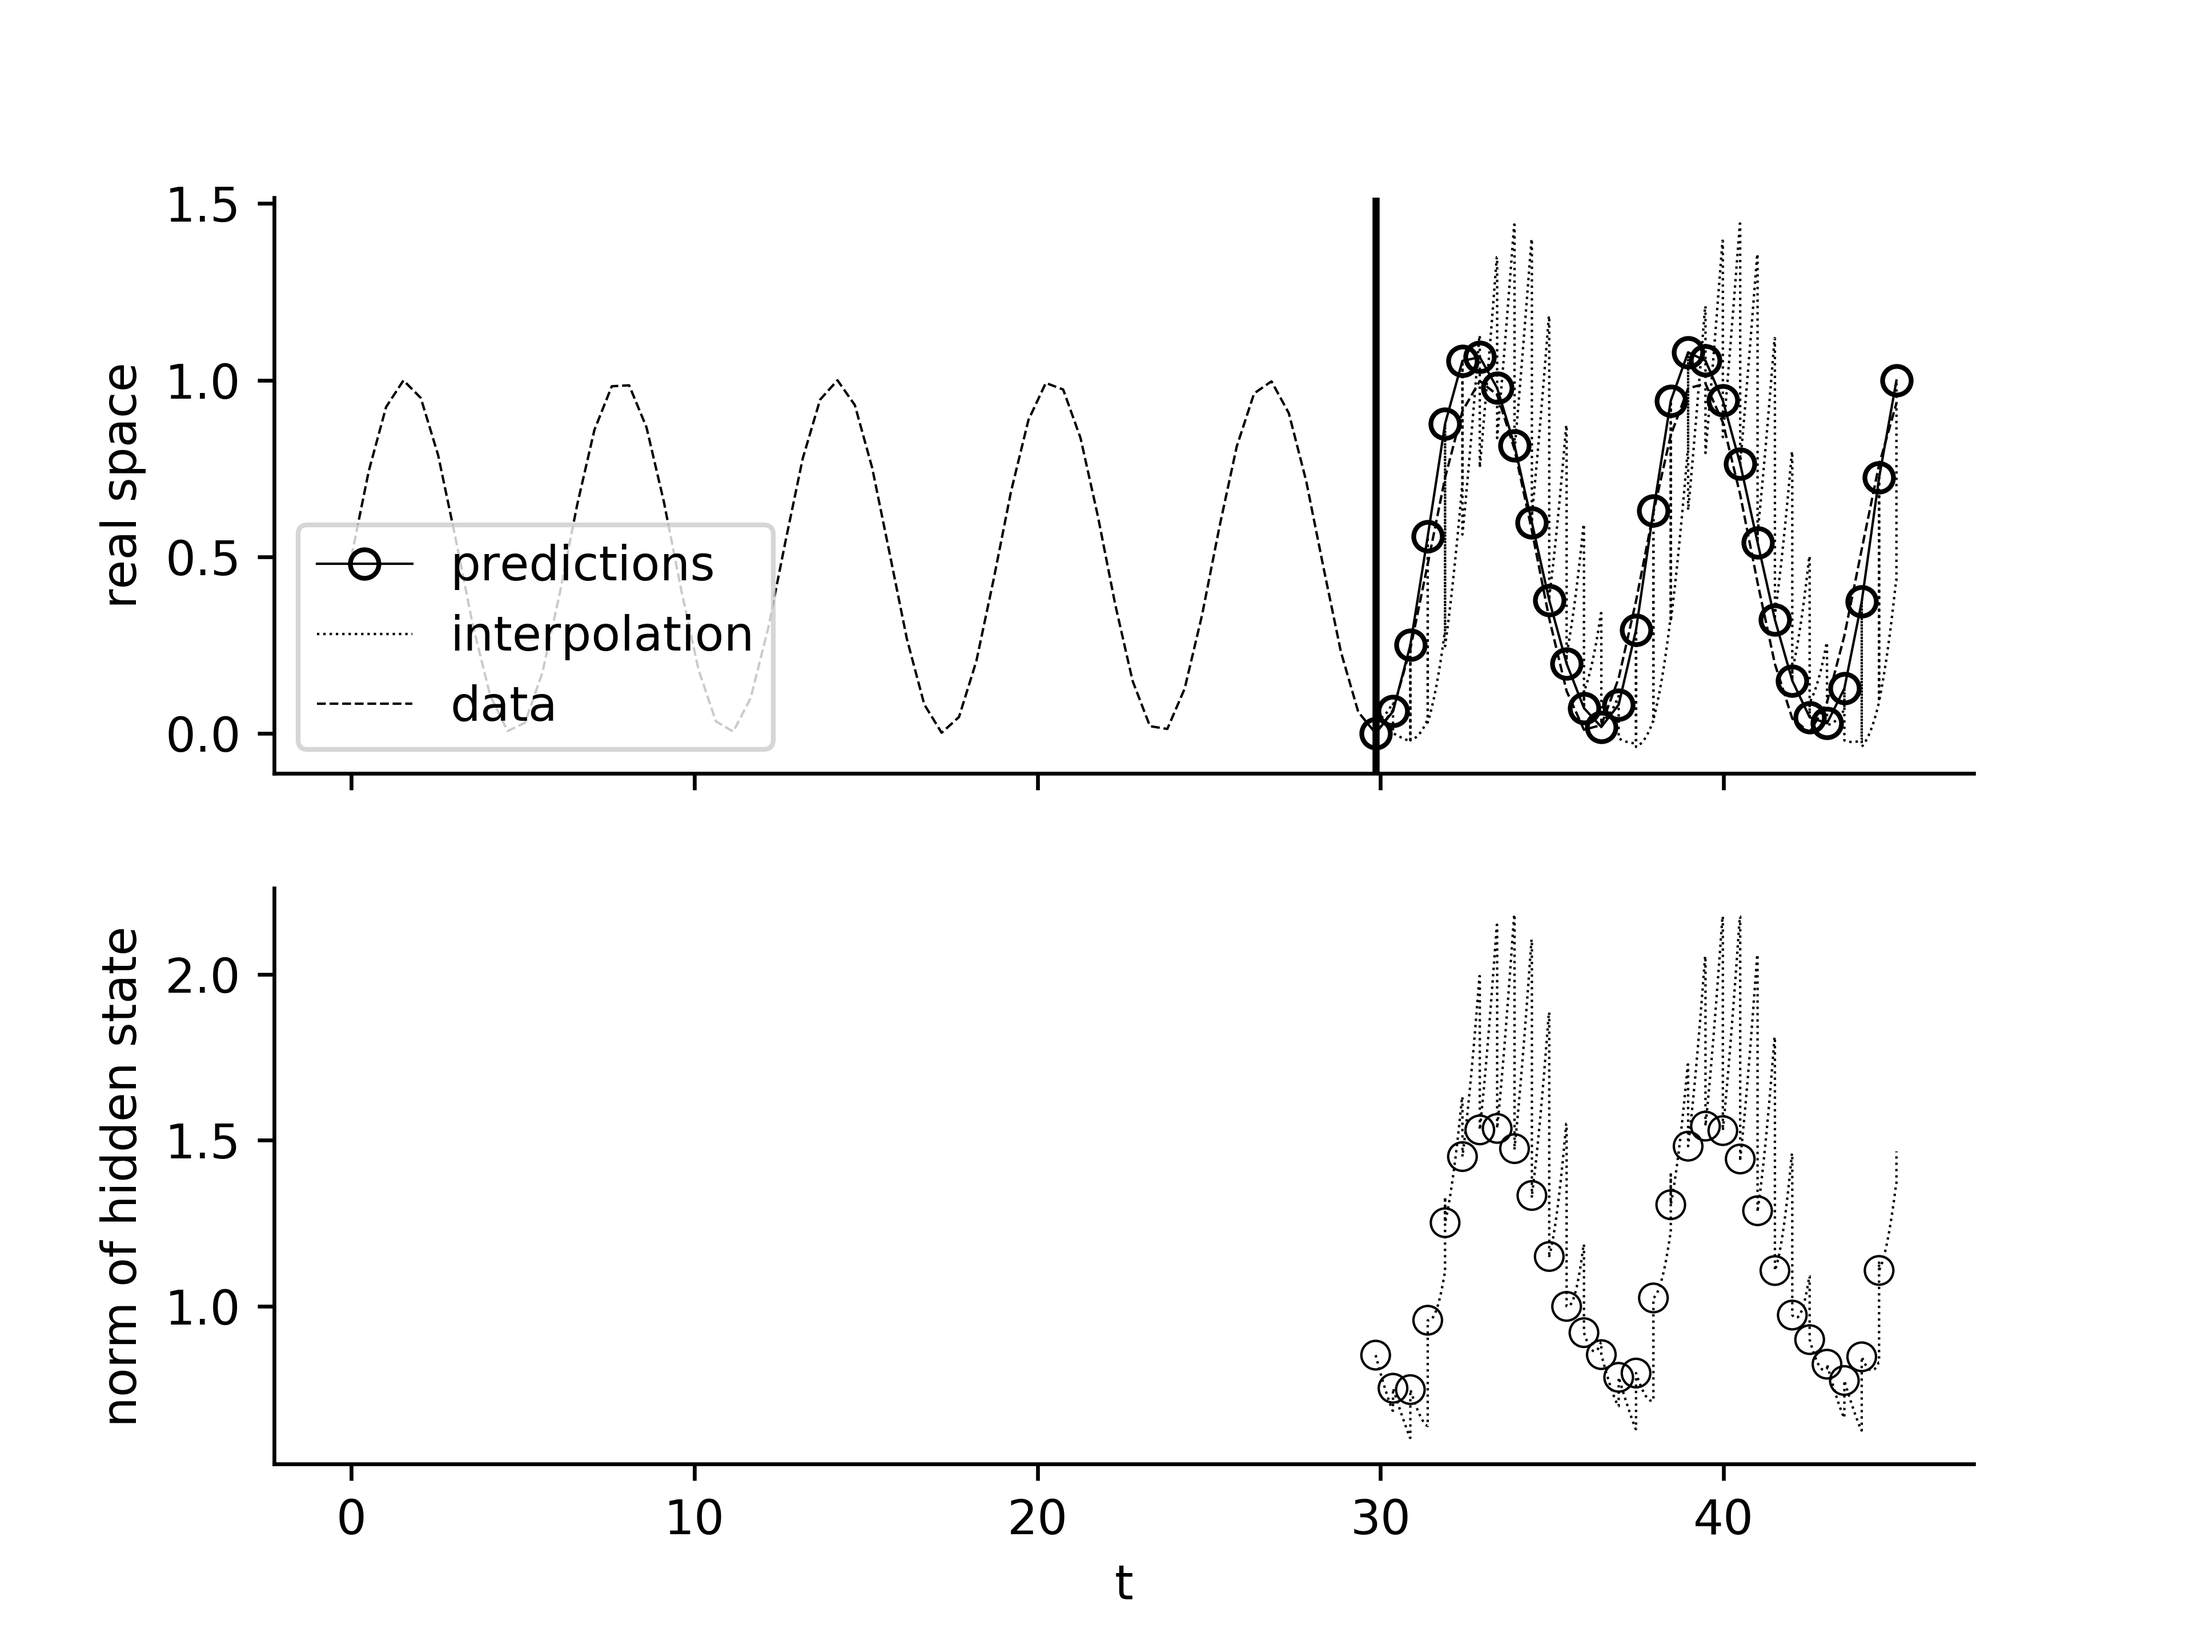
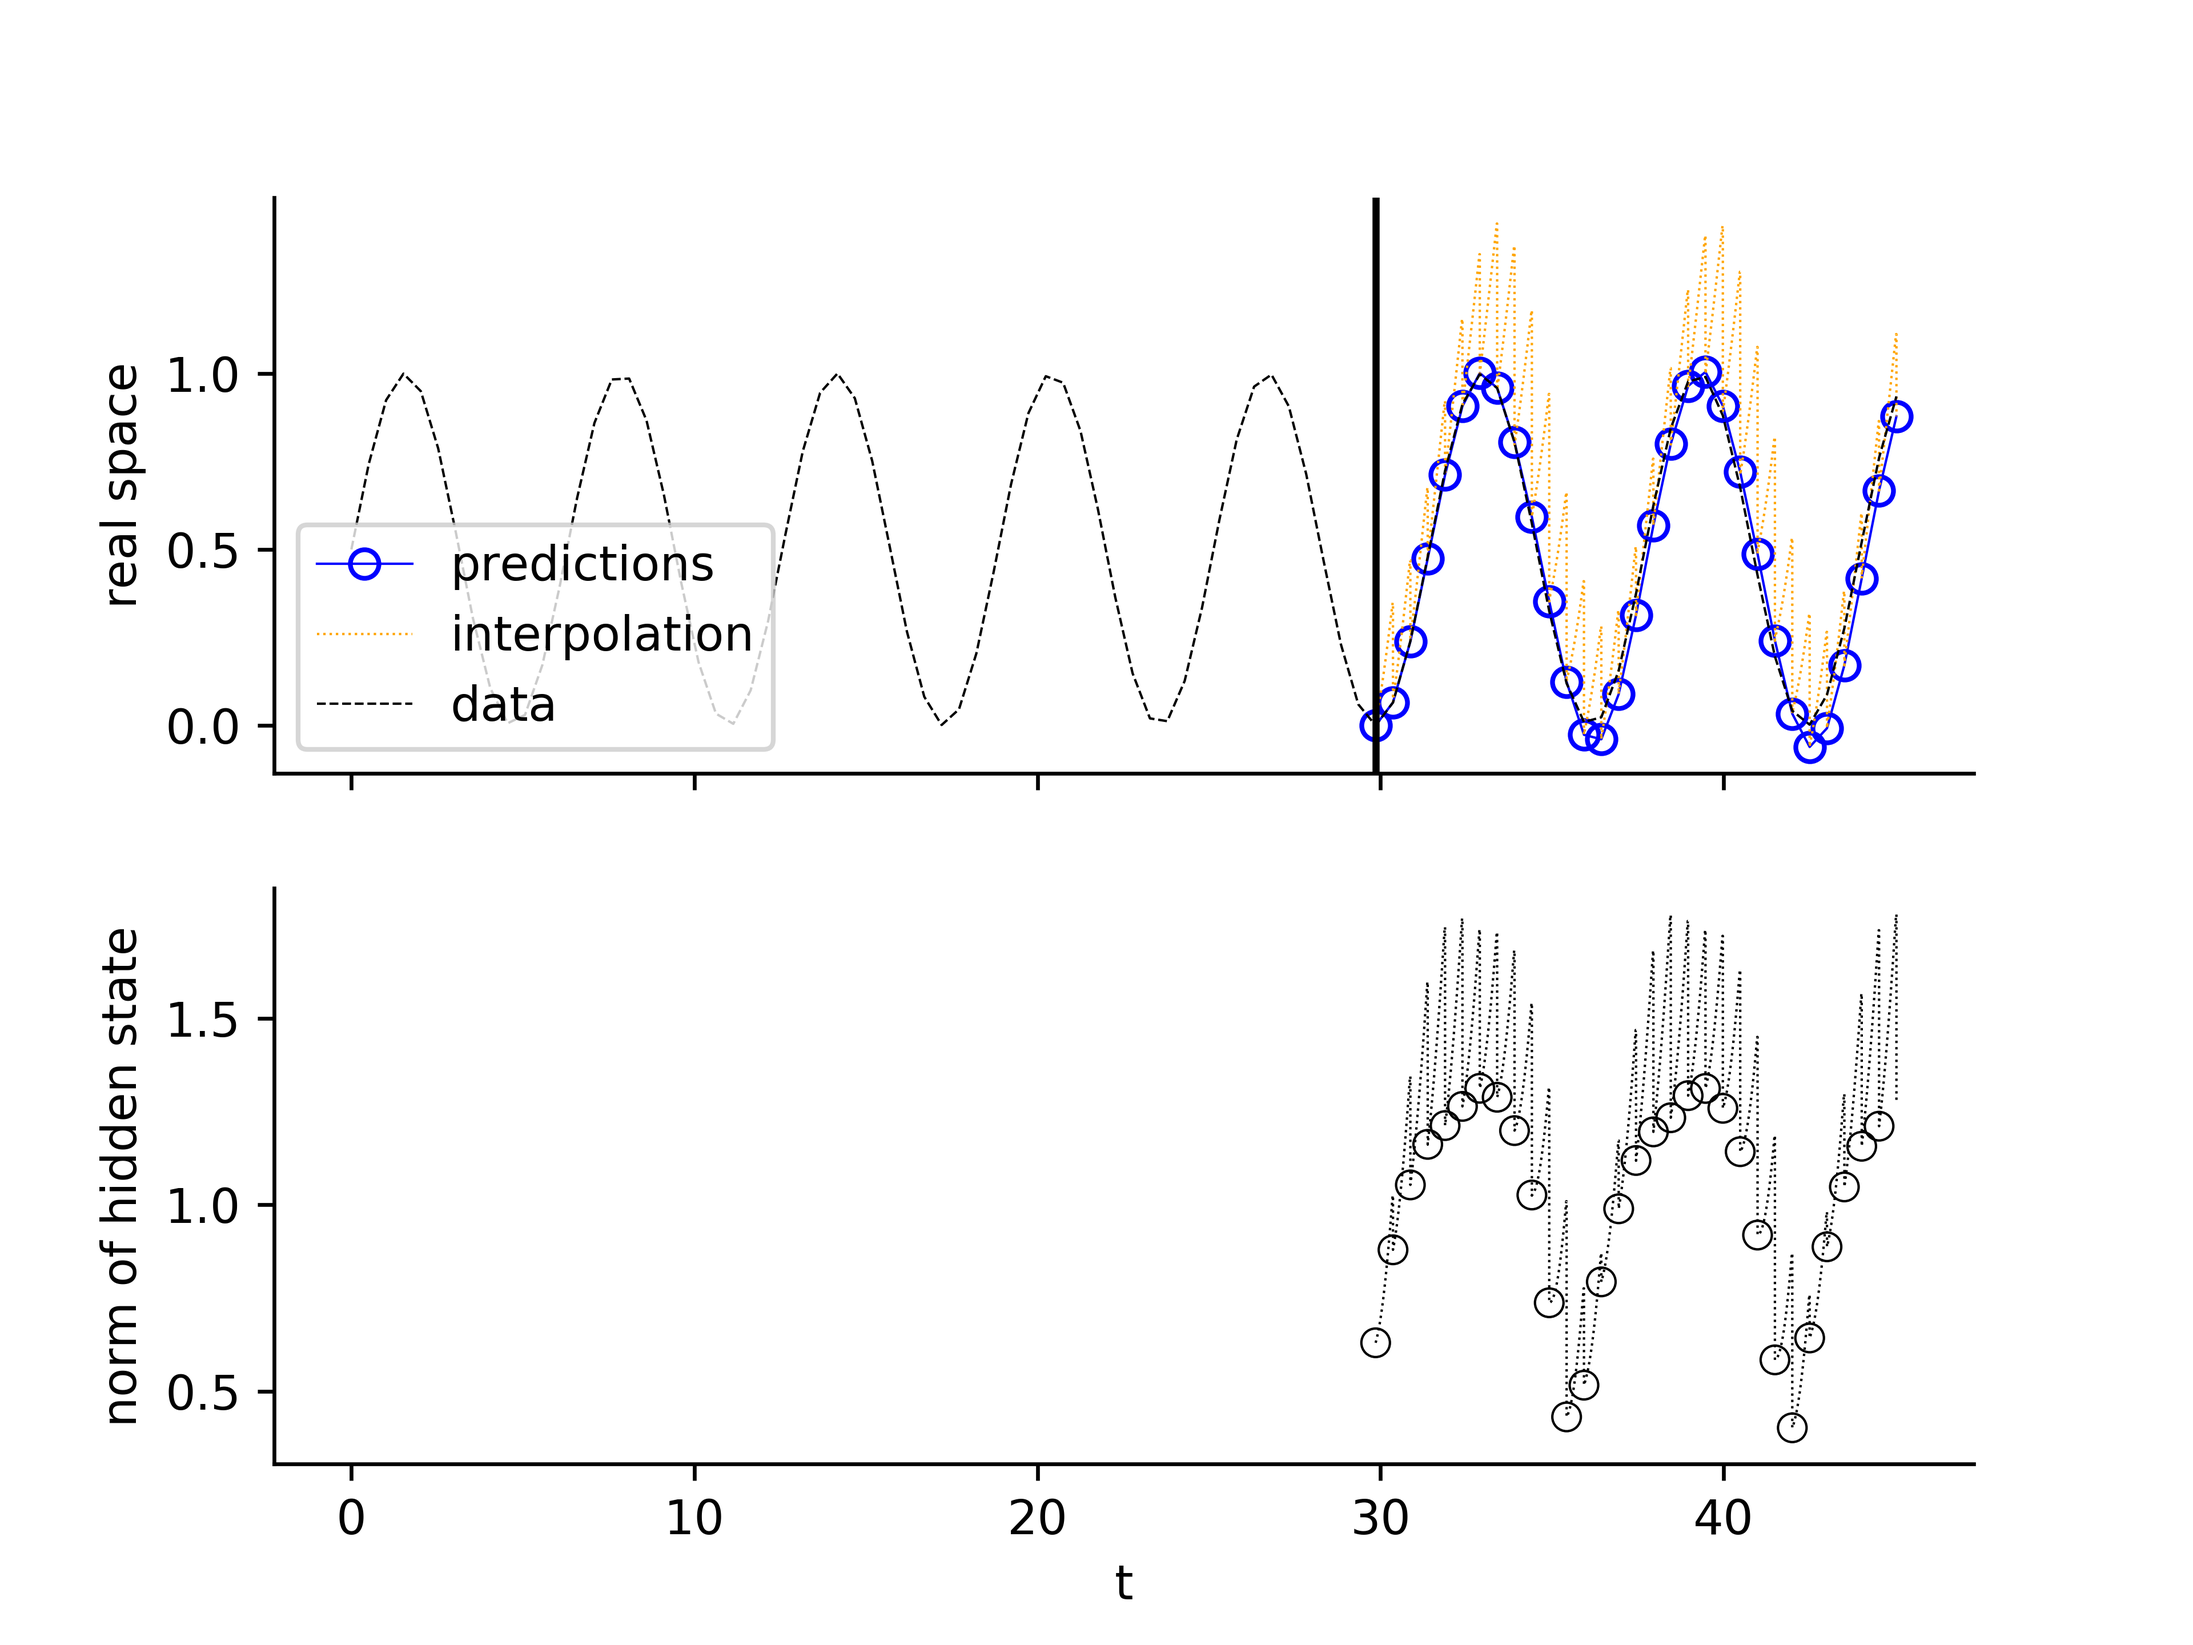
Updated ODE_Net odeint Integration

diff --git a/fig5.py b/fig5.py
@@ -81,8 +81,7 @@ start_time = time.time()
 
 for i in range(1):
 
-    print("Model", i, "| elapsed time:", "{:5.2f}".format(
-        (time.time() - start_time) / 60), "min")
+    print("Model", i, "| elapsed time:", "{:5.2f}".format((time.time() - start_time) / 60), "min")
 
     model = ODE_RNN(1, 4, 1, device_params, time_steps)
     losses = train.train(train_data, model, epochs)
@@ -104,7 +103,7 @@ for i in range(1):
                  (y.view(-1)[cutoff + tw - 1].view(-1), output.view(-1)), axis=0),
              'o-',
              linewidth=0.5,
-             color='k',
+             color='blue',
              markerfacecolor='none',
              )
 
@@ -112,18 +111,11 @@ for i in range(1):
     H = model.node_rnn.observer.history[0].detach()
     t = model.node_rnn.observer.history[1].view(-1).detach()
 
-    print("AX1")
-    print(H)
-    print(H.size())
-    print(t)
-    print(t.size)
-    print(model.decoder(torch.transpose(H, 0, 1)).view(-1).detach())
-
     ax1.plot(t,
              model.decoder(torch.transpose(H, 0, 1)).view(-1).detach(),
              ':',
              linewidth=0.5,
-             color='k')
+             color='orange')
 
     ax2.plot(t,
              torch.linalg.norm(H, ord=2, dim=1).view(-1),

diff --git a/networks/ode_net.py b/networks/ode_net.py
@@ -49,6 +49,7 @@ class Euler_Forward_ODE_Net(Abstract_ODE_Net):
         for i in range(self.N):
             x = x + h * self.nonlinear(self.linear(x))
             if self.observer_flag:
+                #self.observer.append(x.view(1, -1), t0 + h*i)
                 self.observer.append(x.view(1, -1), t0 + h*i)
         return x
     
@@ -66,15 +67,16 @@ class ODE_Net(Abstract_ODE_Net):
     def __init__(self, hidden_layer_size, N, cb, observer):
         super(ODE_Net, self).__init__(hidden_layer_size, N, cb, observer)
 
-    def forward(self, x0, t0, t1):
+    def forward(self, t, x):
         # x is the parallel to y0
-        x = x0
-        t = torch.tensor([0, self.N]).float()
-        out = odeint(self.ODE_Func, x, t)
+        # t = torch.tensor([0, self.N]).float()
+        out = odeint(self.ODE_Func, t, x)
         return out[1]
 
     def ODE_Func(self, t, x):
         out = self.nonlinear(self.linear(x))
         if self.observer_flag:
-            self.observer.append(x.view(1, -1), out)
+            print("OUT: ", out.size())
+            print("T: ", t.size())
+            self.observer.append(out.view(1, -1), t)
         return out

diff --git a/train.py b/train.py
@@ -7,25 +7,22 @@ def train(examples, model, epochs):
     loss_function = torch.nn.MSELoss()
     loss_history = []
 
-    for epoch in range(epochs):
+    for epoch in range(epochs-1):
 
         epoch_loss = []
         for i, (example, label) in enumerate(examples):
-            
             optimizer.zero_grad()
             prediction = model(example)
-            # print("PREDICTION: ", prediction.size())
-            # print("LABEL: ", label.size())
+            # print("PREDICTION: ", prediction)
+            # print("LABEL: ", label)
             loss = loss_function(prediction, label)
             epoch_loss.append(loss)
             loss.backward()
             optimizer.step()
         
+        print("TIME: ", epoch)
         loss_history.append(sum(epoch_loss) / len(examples))
         epoch_loss = []
-
-        print("epoch: ", epoch)
-        print("loss: ", sum(epoch_loss) / len(examples))
 
     return loss_history
 

diff --git a/networks/node_rnn.py b/networks/node_rnn.py
@@ -26,7 +26,7 @@ class NODE_RNN(nn.Module):
         self.linear_hidden = Linear(hidden_layer_size, hidden_layer_size, self.cb)
 
         # Append ODE Solver
-        self.solve = Euler_Forward_ODE_Net(hidden_layer_size, self.N, self.cb, self.observer)
+        self.solve = ODE_Net(hidden_layer_size, self.N, self.cb, self.observer)
         self.nonlinear = nn.Tanh()
 
     # Taking a sequence, this predicts the next N points, where
@@ -38,7 +38,9 @@ class NODE_RNN(nn.Module):
             if i == (len(x) - 1) and self.observer.on == True:
                 self.solve.observer_flag = True
             
-            h_i = self.solve(h_i, t[i-1] if i>0 else t[i], t[i])
+            # Solve step
+            #h_i = self.solve(h_i, t[i-1] if i>0 else t[i], t[i])
+            h_i = self.solve(h_i, t.view(-1))
             
             if i == (len(x) - 1):
                 self.observer.append(h_i.view(1, -1), t[i])
